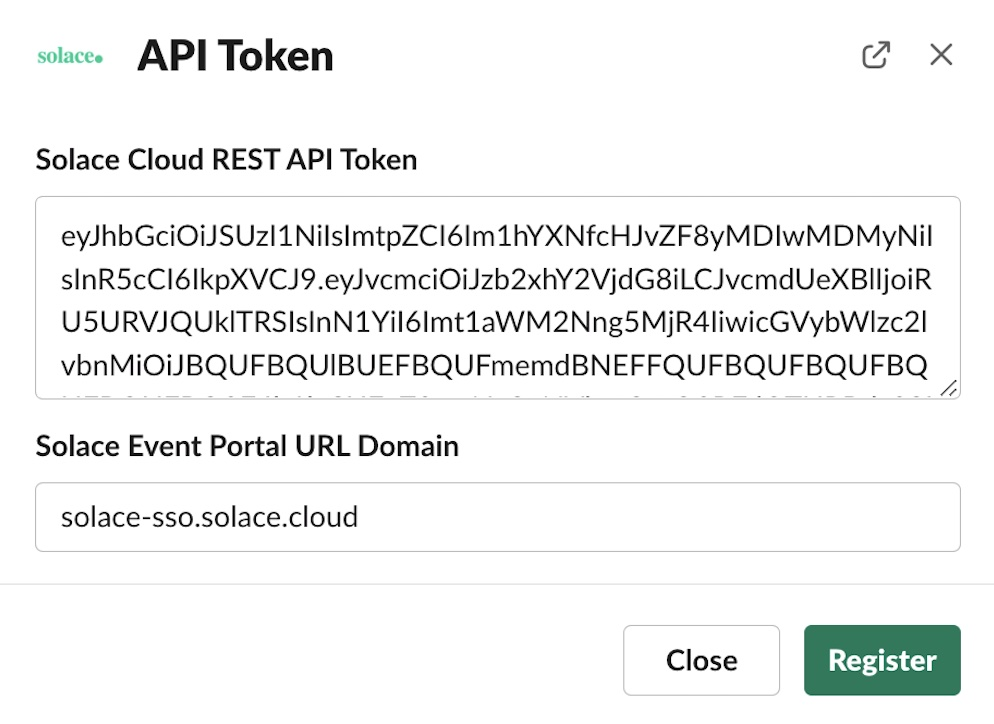
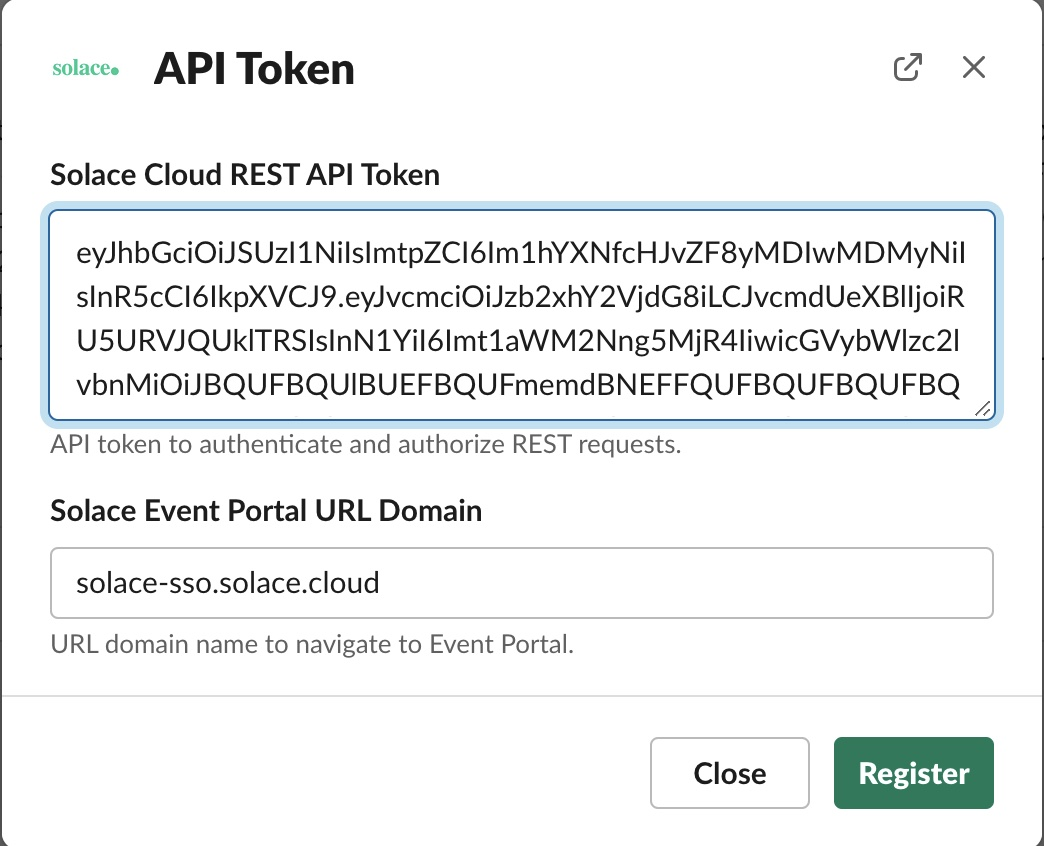
- Token generation help text now will take to console.solace.cloud, instead of sso-solace.console.cloud - Modified the buttons to plain links in the show help to open docs, feedback and community pages (to address the issue of annoying warning button) 	BTW, seems like a known Slack issue and no reso

diff --git a/appUtils.js b/appUtils.js
@@ -68,9 +68,9 @@ const postRegisterMessage = async (channel, user) => {
           type: "mrkdwn",
           text: ":boom: Hey there 👋 I'm SolaceBot. \n\nCould not process your request yet, sorry about that!\n\n"
                     + "I need you to register a valid API token to access Solace Event Portal. "
-                    + "Follow the link to create a API token in the <https://solace-sso.solace.cloud/api-tokens/create|*Event Portal*>. "
+                    + "Follow the link to create a API token in the <https://console.solace.cloud/api-tokens/create|*Event Portal*>. "
                     + "It just takes a minute, and then you'll be all set. "
-                    + "\nJust click on `Register` button below and update the token and domain details."
+                    + "\nJust click on `Register` button below and update the token and URL domain details."
         },
       },      
       {
@@ -365,34 +365,22 @@ const showHelp = async(userId, channelId) => {
       type: "divider"
     },    
     {
-      type: "actions",
-      elements: [
+      "type": "context",
+      "elements": [
         {
-          type: "button",
-          text: {
-            type: "plain_text",
-            text: ":book: Documentation",
-          },
-          url: "https://github.com/SolaceLabs/solace-slack-app"
+          "type": "mrkdwn",
+          "text": "<https://github.com/SolaceLabs/solace-slack-app|*:book: Documentation*>",
         },
         {
-          type: "button",
-          text: {
-            type: "plain_text",
-            text: ":thought_balloon: Feedback"
-          },
-          url: "https://github.com/SolaceLabs/solace-slack-app/issues/new"
+          "type": "mrkdwn",
+          "text": "<https://github.com/SolaceLabs/solace-slack-app/issues/new?title=Solace%20Integration%20for%20Slack%20-%20Feedback&body=%23%20Description%20of%20Bug/Enhancement|*:thought_balloon: Feedback*>",
         },
         {
-          type: "button",
-          text: {
-            type: "plain_text",
-            text: ":busts_in_silhouette: Community"
-          },
-          url: "https://solace.community/"
+          "type": "mrkdwn",
+          "text": "<https://solace.community/|*:busts_in_silhouette: Community*>",
         },
       ]
-    },
+    },    
     {
       type: "divider"
     },        
@@ -408,7 +396,7 @@ const showHelp = async(userId, channelId) => {
       text: 'Message from Solace App'
     });
   } catch (error) {
-    console.error(error);
+    console.error(JSON.stringify(error, null, 2));
   }
 
   return;
@@ -484,7 +472,7 @@ const showExamples = async(userId, channelId, actionId=null) => {
         text: {
           "type": "mrkdwn", 
           "text": "`/solace applications domain:\"EP-Integration\"`\n"
-                  + "Get all applications in domain \"EP-Integration\"" 
+                  + "Get all applications in application domain \"EP-Integration\"" 
         }, 
       },
       {
@@ -501,7 +489,7 @@ const showExamples = async(userId, channelId, actionId=null) => {
         text: {
           "type": "mrkdwn",
           "text": '`/solace applications name:\"EP-Integration-Application\" domain:"EP-Integration"`\n'
-                  + "Get application by name \"EP-Integration-Application\" in domain \"EP-Integration\" " 
+                  + "Get application by name \"EP-Integration-Application\" in application domain \"EP-Integration\" " 
 
         },
       },
@@ -550,7 +538,7 @@ const showExamples = async(userId, channelId, actionId=null) => {
         text: {
           "type": "mrkdwn", 
           "text": "`/solace events shared:false domain:\"EP-Integration\"`\n"
-                  + "Get all events that are not shared in domain \"EP-Integration\"" 
+                  + "Get all events that are not shared in application domain \"EP-Integration\"" 
         }, 
       },
       {
@@ -607,7 +595,7 @@ const showExamples = async(userId, channelId, actionId=null) => {
         text: {
           "type": "mrkdwn", 
           "text": "`/solace schemas domain:\"EP-Integration\"`\n"
-                  + "Get all schemas in domain \"EP-Integration\"" 
+                  + "Get all schemas in application domain \"EP-Integration\"" 
         }, 
       },
       {

diff --git a/buildBlocks.js b/buildBlocks.js
@@ -1,50 +1,5 @@
 const states = { 1: "Draft", 2: "Released", 3: "Deprecated", 4: "Retired" }
 
-const constructErrorUnfurl = (error) => {
-  let blocks = [
-    {
-      type: "divider"
-    },
-    {
-      type: "section",
-      text: {
-        type: "mrkdwn",
-        text: "*Discover, Visualize and Catalog Your Event Streams With PubSub+ Event Portal*\n\n\n"
-      },
-    },
-    {
-      type: "divider"
-    },
-    {
-      "type": "section",
-      "text": {
-        "type": "mrkdwn",
-        "text": ":boom: Hey there 👋 I'm SolaceBot. Could not process your request due to _`"
-                  + error + "`_. Sorry about that!"
-                  + "\n\n\nIt could be due to following reasons:"
-      }
-    },
-    {
-      "type": "section",
-      "text": {
-        "type": "mrkdwn",
-        "text": "*:one:* The link is not a valid Solace Event Portal link from domains _`solace-sso.solace.cloud`_ or _`console.solace.cloud`_"
-      }
-    },
-    {
-      "type": "section",
-      "text": {
-        "type": "mrkdwn",
-        "text": "*:two:* The link is from *v1.0 Event Portal*." 
-                + " Ensure that the links are from a *v2.0* Event Portal.\n\n\n"
-                + " :bulb: To enable *v2.0*, go to Event Portal *Home* and turn _*on*_ the *New Event Portal 2.0* option."
-      }
-    },
-  ]
-
-  return blocks;
-}
-
 const buildDomainBlocks = (results, domain, next=null) => {
   let blocks = [];
   let getString = undefined;
@@ -1772,7 +1727,6 @@ const buildSchemaVersionBlocks = (results, domain, next=null) => {
 }
 
 module.exports = { 
-  constructErrorUnfurl,
   buildDomainBlocks,
   buildApplicationVersionBlocks,
   buildApplicationBlocks,

diff --git a/appHome.js b/appHome.js
@@ -90,7 +90,7 @@ const updateView = async(user) => {
           "type": "mrkdwn",
           text: ":boom: Hey there 👋 \n\n"
                     + "I need you to register a valid API token to access Solace Event Portal. "
-                    + "Follow the link to create a API token in the <https://solace-sso.solace.cloud/api-tokens/create|*Event Portal*>. "
+                    + "Follow the link to create a API token in the <https://console.solace.cloud/api-tokens/create|*Event Portal*>. "
                     + "It just takes a minute, and then you'll be all set. "
                     + "\nJust click on `Register Token` button above and update the token and domain details."
         }
@@ -162,7 +162,11 @@ const openModal = (token) => {
           },
           "initial_value": token ? token.token : "",
           "multiline": true
-        }
+        },
+        "hint": {
+          "type": "plain_text",
+          "text": "API token to authenticate and authorize REST requests"
+        }  
       },
       {
         "type": "input",
@@ -177,11 +181,15 @@ const openModal = (token) => {
           "action_id": "content",
           "placeholder": {
             "type": "plain_text",
-            "text": "Enter a valid domain name..",
+            "text": "Enter a valid URL domain name..",
             "emoji": true,
           },
           "initial_value": token ? token.domain : "",
-        }
+        },
+        "hint": {
+          "type": "plain_text",
+          "text": "URL domain name to navigate to Event Portal"
+        }  
       },
     ]
   };
